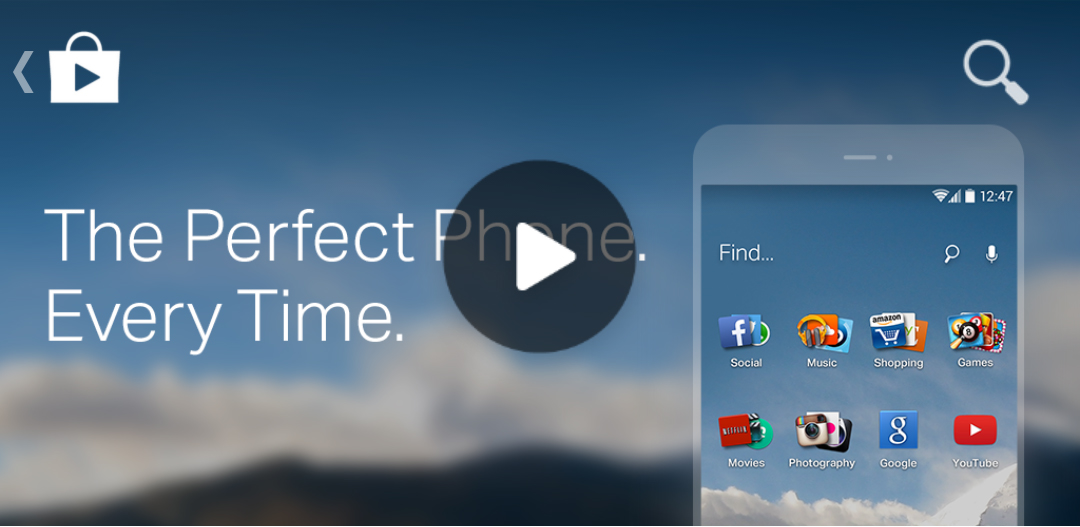
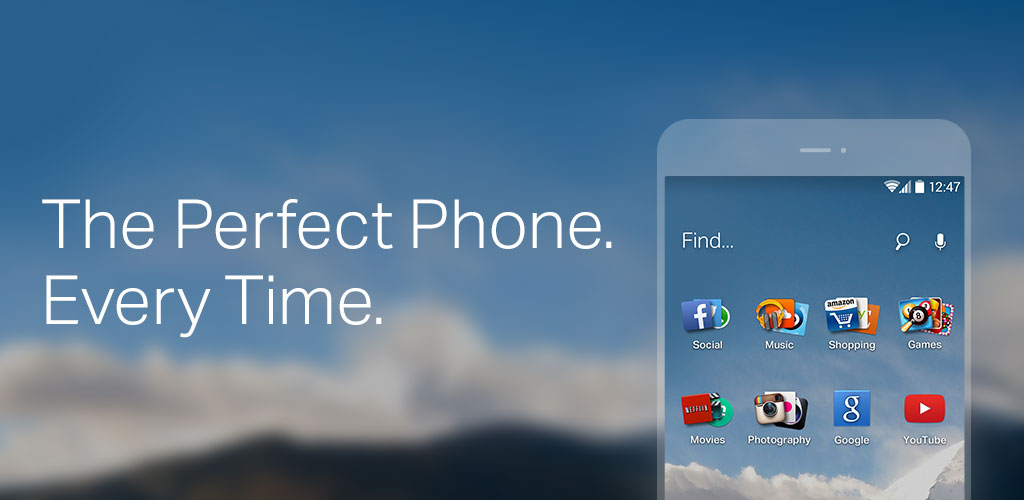
customizable header image

diff --git a/index.html b/index.html
@@ -29,13 +29,33 @@
             <label>App Description</label>
             <input ng-model="appDescription" type="text" class="form-control">
           </div>
+
+          <div class="form-group">
+            <label>Header Image</label>
+            <span class="help-block">One of the following or any image URL</span>
+            <div class="radio">
+              <label>
+                <input ng-model="headerImg" type="radio" value="images/header.jpg"> Tagline + Device
+              </label>
+              <div class="radio">
+                <label>
+                  <input ng-model="headerImg" type="radio" value="images/header_alt1.jpg"> Brand + Device
+                </label>
+              </div>
+              <label>
+                <input ng-model="headerImg" type="radio" value="images/header_alt2.jpg"> Brand Only
+              </label>
+            </div>
+
+            <input ng-model="customHeaderImg" type="text" class="form-control" placeholder="http://example.com/image.jpg">
+          </div>
         </form>
 
         <button ng-click="save()" class="btn btn-primary btn-block" type="button">Get Link</button>
 
         <div class="list-group" ng-show="history.length">
           <h3>History</h3>
-          <p class="text-muted">For this session only. Reloading the page will clear your history.</p>
+          <p class="text-muted">Reloading the page will clear your history.</p>
           <ul ng-repeat="item in history">
             <li><a ng-href="{{item.href}}" target="_blank">{{item.id}}</a></li>
           </ul>
@@ -51,7 +71,8 @@
             <div class="inner"></div>
             <div class="screen">
               <div id="output">
-                <img src="images/header.jpg" id="header">
+                <img src="images/header_ui.png" id="headerui">
+                <img ng-src="{{headerImg}}" id="header">
                 <section id="section-info">
                   <img src="images/logo.jpg" id="logo">
                   <div id="info">

diff --git a/js/app.js b/js/app.js
@@ -1,10 +1,15 @@
 angular.module('Playa', [])
   .controller('MainCtrl', function($scope, JSONStore) {
 
+    var defaultHeaderImg = 'images/header.jpg';
+
+    $scope.headerImg = defaultHeaderImg;
+
     $scope.appName = 'EverythingMe Launcher';
 
     $scope.appDescription = 'EverythingMe delivers what you need, when ' +
                             'you need it, right to your homescreen.';
+
     $scope.developerName = 'EverythingMe';
 
     // history for saved configurations. an array of object like:
@@ -12,7 +17,10 @@ angular.module('Playa', [])
     //  id: str
     //  href: url
     // }
-    $scope.history = [];
+    $scope.history = [{
+      id: "1f7dabd3a6449b86a8fd",
+      href: "https://gist.github.com/1f7dabd3a6449b86a8fd"
+    }];
 
     $scope.save = function save() {
       return JSONStore
@@ -29,6 +37,10 @@ angular.module('Playa', [])
         });
       });
     };
+
+    $scope.$watch('customHeaderImg', function(value) {
+      $scope.headerImg = value ? value : defaultHeaderImg;
+    });
   })
 
   /**

diff --git a/style/playa.css b/style/playa.css
@@ -48,6 +48,12 @@ section {
 
 #header {
   width: 100%;
+  max-height: 142px;
+}
+#headerui {
+  width: 100%;
+  position: absolute;
+  top: 0;
 }
 
 #badges {
@@ -56,7 +62,7 @@ section {
 
 #logo {
   width: 48px;
-  vertical-align: bottom;
+  vertical-align: top;
 
 }
 #info {
